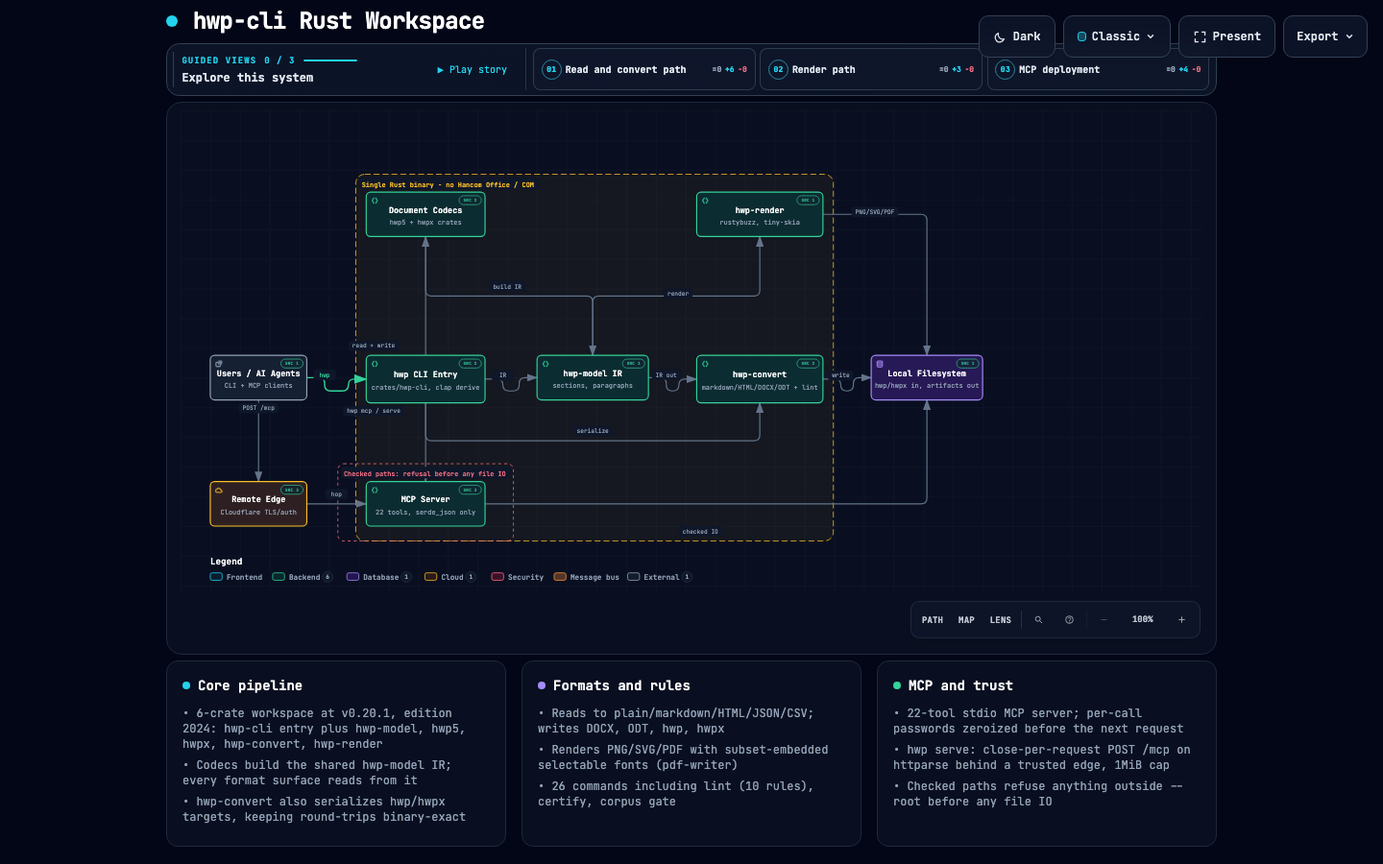
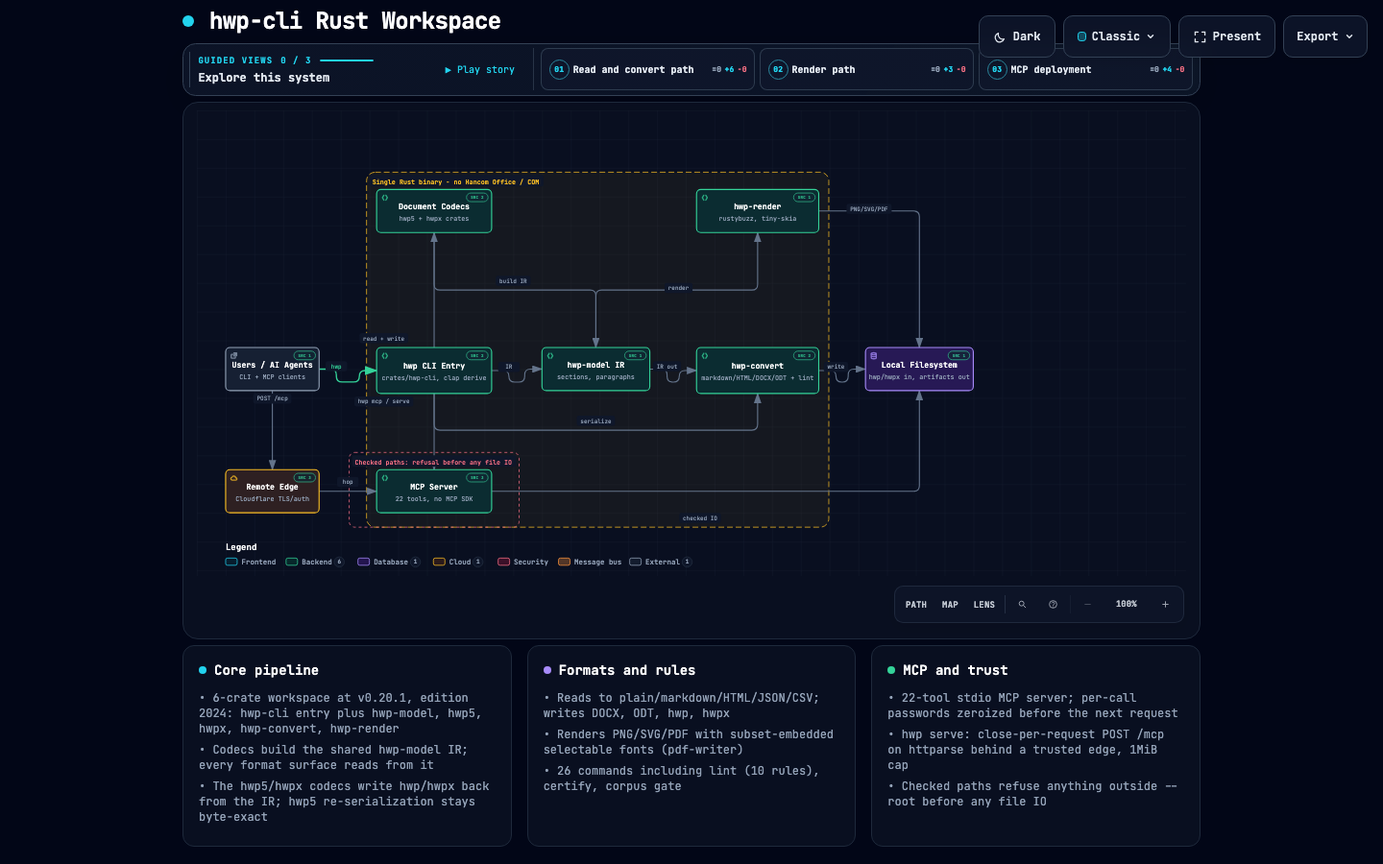
docs(archify): correct the codec and MCP facts the merge gate found
- the Core pipeline card claimed hwp-convert serializes hwp/hwpx; it has
  no runtime dependency on hwp5/hwpx (hub-and-spoke). The hwp5/hwpx
  codecs write hwp/hwpx back from the IR, and the byte-exact gate is
  hwp5 re-serialization only. Carried over from the original snapshot.
- MCP sublabel: "no MCP SDK" instead of "serde_json only" (the HTTP path
  now uses httparse)
- stdio.rs evidence anchors at line 4, where per-call zeroize is stated
- the visual-check sidecar records the artifact path relative to docs/
  instead of the absolute local path the tool writes

validate --quality showcase 9/9, 0 errors, 0 warnings; deliver spec
sha256 7b15b202..., artifact 84af04b6... (820997 bytes); visual-check
pass, containment ok at all four viewports.

Claude-Session: https://claude.ai/code/session_01Db8zCWZeJeNkrn9LPfnFH9

diff --git a/docs/hwp-cli-rendered.html b/docs/hwp-cli-rendered.html
@@ -5086,7 +5086,7 @@ OTHER DEALINGS IN THE FONT SOFTWARE.
     </div>
 
     <script id="archify-guided-views-data" type="application/json">[{"id":"read-path","label":"Read and convert path","focus":["user","cli","codecs","model","convert","fs"],"note":"From hwp/hwpx input to IR and converted artifacts."},{"id":"render-path","label":"Render path","focus":["model","render","fs"],"note":"IR to glyph shaping, layout and PNG/SVG/PDF publishing."},{"id":"mcp-path","label":"MCP deployment","focus":["cli","mcp","edge","fs"],"note":"22-tool stdio server and the POST /mcp edge hop."}]</script>
-    <script id="archify-source-evidence-data" type="application/json">{"schemaVersion":1,"verified":true,"repository":{"url":"https://github.com/STAIxBWLB/hwp-cli","revision":"41a1c555747b338efe265f87cb6dca06b223cad7","shortRevision":"41a1c55","label":"STAIxBWLB/hwp-cli","href":"https://github.com/STAIxBWLB/hwp-cli/tree/41a1c555747b338efe265f87cb6dca06b223cad7"},"referenceCount":16,"nodes":{"user":[{"path":"crates/hwp-cli/src/cli.rs","line":68,"label":"clap derive Cmd enum","href":"https://github.com/STAIxBWLB/hwp-cli/blob/41a1c555747b338efe265f87cb6dca06b223cad7/crates/hwp-cli/src/cli.rs#L68"}],"cli":[{"path":"crates/hwp-cli/src/cli.rs","line":68,"endLine":580,"label":"26-variant Cmd enum","href":"https://github.com/STAIxBWLB/hwp-cli/blob/41a1c555747b338efe265f87cb6dca06b223cad7/crates/hwp-cli/src/cli.rs#L68-L580"},{"path":"crates/hwp-cli/src/main.rs","line":1,"label":"hwp binary entrypoint","href":"https://github.com/STAIxBWLB/hwp-cli/blob/41a1c555747b338efe265f87cb6dca06b223cad7/crates/hwp-cli/src/main.rs#L1"}],"codecs":[{"path":"crates/hwp5/src/lib.rs","line":1,"label":"CFB record stream codec","href":"https://github.com/STAIxBWLB/hwp-cli/blob/41a1c555747b338efe265f87cb6dca06b223cad7/crates/hwp5/src/lib.rs#L1"},{"path":"crates/hwpx/src/lib.rs","line":1,"label":"OWPML package codec","href":"https://github.com/STAIxBWLB/hwp-cli/blob/41a1c555747b338efe265f87cb6dca06b223cad7/crates/hwpx/src/lib.rs#L1"}],"model":[{"path":"crates/hwp-model/src/lib.rs","line":1,"label":"L1 semantic IR, serde only","href":"https://github.com/STAIxBWLB/hwp-cli/blob/41a1c555747b338efe265f87cb6dca06b223cad7/crates/hwp-model/src/lib.rs#L1"}],"render":[{"path":"crates/hwp-render/src/lib.rs","line":1,"label":"IR to PNG/SVG/PDF pipeline","href":"https://github.com/STAIxBWLB/hwp-cli/blob/41a1c555747b338efe265f87cb6dca06b223cad7/crates/hwp-render/src/lib.rs#L1"}],"convert":[{"path":"crates/hwp-convert/src/lint.rs","line":76,"endLine":85,"label":"10 stable rule ids","href":"https://github.com/STAIxBWLB/hwp-cli/blob/41a1c555747b338efe265f87cb6dca06b223cad7/crates/hwp-convert/src/lint.rs#L76-L85"},{"path":"crates/hwp-convert/src/official.rs","line":9,"label":"6 official-document profiles","href":"https://github.com/STAIxBWLB/hwp-cli/blob/41a1c555747b338efe265f87cb6dca06b223cad7/crates/hwp-convert/src/official.rs#L9"}],"fs":[{"path":"crates/hwp-cli/src/certification.rs","line":2964,"label":"atomic write_artifact staging","href":"https://github.com/STAIxBWLB/hwp-cli/blob/41a1c555747b338efe265f87cb6dca06b223cad7/crates/hwp-cli/src/certification.rs#L2964"}],"mcp":[{"path":"crates/hwp-cli/src/commands/mcp/mod.rs","line":2302,"label":"tool_defs: 22 tool table","href":"https://github.com/STAIxBWLB/hwp-cli/blob/41a1c555747b338efe265f87cb6dca06b223cad7/crates/hwp-cli/src/commands/mcp/mod.rs#L2302"},{"path":"crates/hwp-cli/src/commands/mcp/stdio.rs","line":9,"label":"per-call password zeroize","href":"https://github.com/STAIxBWLB/hwp-cli/blob/41a1c555747b338efe265f87cb6dca06b223cad7/crates/hwp-cli/src/commands/mcp/stdio.rs#L9"},{"path":"crates/hwp-cli/src/commands/mcp/authority.rs","line":273,"label":"checked_read_path / checked_write_path","href":"https://github.com/STAIxBWLB/hwp-cli/blob/41a1c555747b338efe265f87cb6dca06b223cad7/crates/hwp-cli/src/commands/mcp/authority.rs#L273"}],"edge":[{"path":"crates/hwp-cli/src/commands/mcp/http.rs","line":1,"label":"close-per-request POST /mcp adapter","href":"https://github.com/STAIxBWLB/hwp-cli/blob/41a1c555747b338efe265f87cb6dca06b223cad7/crates/hwp-cli/src/commands/mcp/http.rs#L1"},{"path":"crates/hwp-cli/src/commands/mcp/wire.rs","line":1,"label":"httparse head parsing, bounded framing","href":"https://github.com/STAIxBWLB/hwp-cli/blob/41a1c555747b338efe265f87cb6dca06b223cad7/crates/hwp-cli/src/commands/mcp/wire.rs#L1"},{"path":"docs/design/22-remote-mcp-deployment.md","line":85,"label":"private hop behind a trusted edge","href":"https://github.com/STAIxBWLB/hwp-cli/blob/41a1c555747b338efe265f87cb6dca06b223cad7/docs/design/22-remote-mcp-deployment.md#L85"}]}}</script>
+    <script id="archify-source-evidence-data" type="application/json">{"schemaVersion":1,"verified":true,"repository":{"url":"https://github.com/STAIxBWLB/hwp-cli","revision":"41a1c555747b338efe265f87cb6dca06b223cad7","shortRevision":"41a1c55","label":"STAIxBWLB/hwp-cli","href":"https://github.com/STAIxBWLB/hwp-cli/tree/41a1c555747b338efe265f87cb6dca06b223cad7"},"referenceCount":16,"nodes":{"user":[{"path":"crates/hwp-cli/src/cli.rs","line":68,"label":"clap derive Cmd enum","href":"https://github.com/STAIxBWLB/hwp-cli/blob/41a1c555747b338efe265f87cb6dca06b223cad7/crates/hwp-cli/src/cli.rs#L68"}],"cli":[{"path":"crates/hwp-cli/src/cli.rs","line":68,"endLine":580,"label":"26-variant Cmd enum","href":"https://github.com/STAIxBWLB/hwp-cli/blob/41a1c555747b338efe265f87cb6dca06b223cad7/crates/hwp-cli/src/cli.rs#L68-L580"},{"path":"crates/hwp-cli/src/main.rs","line":1,"label":"hwp binary entrypoint","href":"https://github.com/STAIxBWLB/hwp-cli/blob/41a1c555747b338efe265f87cb6dca06b223cad7/crates/hwp-cli/src/main.rs#L1"}],"codecs":[{"path":"crates/hwp5/src/lib.rs","line":1,"label":"CFB record stream codec","href":"https://github.com/STAIxBWLB/hwp-cli/blob/41a1c555747b338efe265f87cb6dca06b223cad7/crates/hwp5/src/lib.rs#L1"},{"path":"crates/hwpx/src/lib.rs","line":1,"label":"OWPML package codec","href":"https://github.com/STAIxBWLB/hwp-cli/blob/41a1c555747b338efe265f87cb6dca06b223cad7/crates/hwpx/src/lib.rs#L1"}],"model":[{"path":"crates/hwp-model/src/lib.rs","line":1,"label":"L1 semantic IR, serde only","href":"https://github.com/STAIxBWLB/hwp-cli/blob/41a1c555747b338efe265f87cb6dca06b223cad7/crates/hwp-model/src/lib.rs#L1"}],"render":[{"path":"crates/hwp-render/src/lib.rs","line":1,"label":"IR to PNG/SVG/PDF pipeline","href":"https://github.com/STAIxBWLB/hwp-cli/blob/41a1c555747b338efe265f87cb6dca06b223cad7/crates/hwp-render/src/lib.rs#L1"}],"convert":[{"path":"crates/hwp-convert/src/lint.rs","line":76,"endLine":85,"label":"10 stable rule ids","href":"https://github.com/STAIxBWLB/hwp-cli/blob/41a1c555747b338efe265f87cb6dca06b223cad7/crates/hwp-convert/src/lint.rs#L76-L85"},{"path":"crates/hwp-convert/src/official.rs","line":9,"label":"6 official-document profiles","href":"https://github.com/STAIxBWLB/hwp-cli/blob/41a1c555747b338efe265f87cb6dca06b223cad7/crates/hwp-convert/src/official.rs#L9"}],"fs":[{"path":"crates/hwp-cli/src/certification.rs","line":2964,"label":"atomic write_artifact staging","href":"https://github.com/STAIxBWLB/hwp-cli/blob/41a1c555747b338efe265f87cb6dca06b223cad7/crates/hwp-cli/src/certification.rs#L2964"}],"mcp":[{"path":"crates/hwp-cli/src/commands/mcp/mod.rs","line":2302,"label":"tool_defs: 22 tool table","href":"https://github.com/STAIxBWLB/hwp-cli/blob/41a1c555747b338efe265f87cb6dca06b223cad7/crates/hwp-cli/src/commands/mcp/mod.rs#L2302"},{"path":"crates/hwp-cli/src/commands/mcp/stdio.rs","line":4,"label":"per-call password zeroize","href":"https://github.com/STAIxBWLB/hwp-cli/blob/41a1c555747b338efe265f87cb6dca06b223cad7/crates/hwp-cli/src/commands/mcp/stdio.rs#L4"},{"path":"crates/hwp-cli/src/commands/mcp/authority.rs","line":273,"label":"checked_read_path / checked_write_path","href":"https://github.com/STAIxBWLB/hwp-cli/blob/41a1c555747b338efe265f87cb6dca06b223cad7/crates/hwp-cli/src/commands/mcp/authority.rs#L273"}],"edge":[{"path":"crates/hwp-cli/src/commands/mcp/http.rs","line":1,"label":"close-per-request POST /mcp adapter","href":"https://github.com/STAIxBWLB/hwp-cli/blob/41a1c555747b338efe265f87cb6dca06b223cad7/crates/hwp-cli/src/commands/mcp/http.rs#L1"},{"path":"crates/hwp-cli/src/commands/mcp/wire.rs","line":1,"label":"httparse head parsing, bounded framing","href":"https://github.com/STAIxBWLB/hwp-cli/blob/41a1c555747b338efe265f87cb6dca06b223cad7/crates/hwp-cli/src/commands/mcp/wire.rs#L1"},{"path":"docs/design/22-remote-mcp-deployment.md","line":85,"label":"private hop behind a trusted edge","href":"https://github.com/STAIxBWLB/hwp-cli/blob/41a1c555747b338efe265f87cb6dca06b223cad7/docs/design/22-remote-mcp-deployment.md#L85"}]}}</script>
     <script id="archify-i18n-data" type="application/json">{"locale":"en","messages":{"viewer.kind.frontend":"Frontend","viewer.kind.backend":"Backend","viewer.kind.database":"Database","viewer.kind.cloud":"Cloud","viewer.kind.security":"Security","viewer.kind.messagebus":"Message bus","viewer.kind.external":"External","viewer.kind.neutral":"Neutral","viewer.kind.node":"Node","viewer.kind.start":"Start","viewer.kind.active":"Active","viewer.kind.waiting":"Waiting","viewer.kind.decision":"Decision","viewer.kind.success":"Success","viewer.kind.failure":"Failure","viewer.toolbar.actions":"Diagram actions","viewer.theme.toggle.title":"Toggle theme (T)","viewer.theme.toggle":"Toggle color theme","viewer.theme.dark":"Dark","viewer.theme.light":"Light","viewer.preset.choose.title":"Choose visual style (S cycles)","viewer.preset.choose":"Choose visual style","viewer.preset.style":"Style","viewer.preset.menu":"Visual style","viewer.preset.identity":"Visual identity","viewer.preset.cycles":"S cycles","viewer.preset.classic":"Classic","viewer.preset.classic.short":"Classic","viewer.preset.classic.hint":"Stable technical default","viewer.preset.flow":"Signal Flow","viewer.preset.flow.short":"Flow","viewer.preset.flow.hint":"Motion-forward presentation","viewer.preset.blueprint":"Blueprint","viewer.preset.blueprint.hint":"Engineering review","viewer.preset.editorial":"Editorial","viewer.preset.editorial.hint":"Publication and launch notes","viewer.preset.badge.signalFlow":"SIGNAL FLOW","viewer.preset.badge.blueprint":"BLUEPRINT / REV 01","viewer.preset.badge.editorial":"EDITORIAL / FIELD NOTE","viewer.preset.badge.editorialPlate":"ARCHIFY / PLATE 04","viewer.preset.current":"Visual style: {style}. Choose visual style","viewer.motion.live":"Live","viewer.motion.still":"Still","viewer.motion.pause":"Pause motion","viewer.motion.resume":"Resume motion","viewer.motion.reduced":"Motion paused by reduced-motion preference","viewer.motion.hidden":"Motion paused while this page is hidden","viewer.motion.yielding":"Pause motion; currently yielding to {owner}","viewer.motion.yielding.title":"Live preview enabled · yielding to {owner}","viewer.owner.story":"the guided story","viewer.owner.chapter":"the active chapter","viewer.owner.chapterPreview":"the chapter delta preview","viewer.owner.handoff":"the chapter handoff","viewer.owner.route":"Route Probe","viewer.owner.lens":"Semantic Lens","viewer.owner.relationship":"Relationship Preview","viewer.owner.intent":"Intent Trace","viewer.owner.focus":"semantic focus","viewer.owner.legend":"legend preview","viewer.owner.reader":"reader interaction","viewer.present.enter":"Enter presentation stage","viewer.present.enter.title":"Presentation stage (F)","viewer.present.exit":"Exit presentation stage","viewer.present.exit.title":"Exit presentation stage (F or Escape)","viewer.present.present":"Present","viewer.present.exit.label":"Exit","viewer.export.button":"Export","viewer.export.button.title":"Export diagram (E)","viewer.export.diagram":"Export diagram","viewer.export.menu":"Export","viewer.export.subtitle":"Portable, clean outputs","viewer.export.share":"Share","viewer.export.shareCard":"Share Card","viewer.export.routeShareCard":"Route Share Card","viewer.export.reachShareCard":"Reach Share Card","viewer.export.copyShareCard":"Copy Share Card","viewer.export.copyDiagram":"Copy diagram","viewer.export.clipboardPng":"PNG to clipboard","viewer.export.raster":"Raster images","viewer.export.image":"Image","viewer.export.lossless":"Lossless image","viewer.export.compact":"Compact image","viewer.export.modern":"Modern image","viewer.export.vectorMotion":"Vector and motion","viewer.export.vectorMotion.heading":"Vector \u0026 motion","viewer.export.editable":"Editable vector","viewer.export.motion6s":"6s motion","viewer.export.unsupported":"Not supported by this browser","viewer.export.clipboardUnsupported":"Clipboard image write not supported by this browser","viewer.export.clipboardUnsupported.period":"Clipboard image write not supported by this browser.","viewer.export.clipboardUnsupported.short":"Clipboard image write not supported in this browser.","viewer.export.motionUnavailable":"Motion capture unavailable in this browser","viewer.export.webmUnavailable":"WebM unavailable in this browser","viewer.export.failed":"Export failed: {message}","viewer.export.unknownVariant":"Unknown Share Card variant: {variant}","viewer.export.routeRequired":"Trace a route before exporting a Route Share Card","viewer.export.reachRequired":"Trace authored reach before exporting a Reach Share Card","viewer.export.unknown":"unknown","viewer.export.routeFailed":"Route Share Card export failed: {message}","viewer.export.reachFailed":"Reach Share Card export failed: {message}","viewer.export.copyFailed":"Copy failed: {message}","viewer.export.copiedPng":"Copied PNG to clipboard","viewer.export.copiedShare":"Copied Share Card","viewer.export.downloadedShare":"Downloaded Share Card","viewer.export.downloadedRoute":"Downloaded Route Share Card","viewer.export.downloadedReach":"Downloaded Reach Share Card","viewer.export.downloadedWebm":"Downloaded WebM","viewer.export.recording":"Recording 6 seconds of motion…","viewer.export.card.routeSummary.one":"Route: {source} → {target} · {count} directed hop","viewer.export.card.routeSummary.other":"Route: {source} → {target} · {count} directed hops","viewer.export.card.reachSummary":"Authored {direction} from {origin} · {nodes} · {links} · max {hops}","viewer.export.card.node.one":"{count} node","viewer.export.card.node.other":"{count} nodes","viewer.export.card.link.one":"{count} link","viewer.export.card.link.other":"{count} links","viewer.export.card.hop.one":"{count} hop","viewer.export.card.hop.other":"{count} hops","viewer.export.card.routeBadge":"ARCHIFY · ROUTE · {hops}","viewer.export.card.reachBadge":"ARCHIFY · {direction} REACH","viewer.export.card.defaultBadge":"ARCHIFY · {preset} · {theme}","viewer.export.direction.upstream":"Upstream","viewer.export.direction.downstream":"Downstream","viewer.export.error.canvasUnavailable":"Canvas unavailable for {label}","viewer.export.error.contextUnavailable":"2D canvas context unavailable for {label}","viewer.export.error.toBlobUnavailable":"canvas.toBlob unavailable for {label}","viewer.export.error.toBlobNull":"canvas.toBlob returned no data for {label}","viewer.export.error.variantsCombined":"Share Card variants cannot be combined","viewer.export.error.viewerState":"Share Card export could not remove temporary viewer state","viewer.export.error.routeState":"Route Card export could not preserve the resolved route safely","viewer.export.error.reachState":"Reach Card export could not preserve authored reach safely","viewer.export.error.webmRequirements":"WebM motion export requires a trace animation and browser MediaRecorder support","viewer.export.error.mediaRecorder":"MediaRecorder failed","viewer.export.error.emptyWebm":"MediaRecorder produced an empty WebM","viewer.export.error.webmBackground":"SVG background could not be loaded for WebM export","viewer.guided.region":"Guided diagram views","viewer.guided.previous":"Previous guided view","viewer.guided.previous.title":"Previous guided view ([)","viewer.guided.next":"Next guided view","viewer.guided.next.title":"Next guided view (])","viewer.guided.views":"Guided views","viewer.guided.explore":"Explore this system","viewer.guided.intro":"Step through curated paths without changing the source diagram.","viewer.guided.trail":"Story trail","viewer.guided.beat":"Beat","viewer.guided.nextBeat":"Next","viewer.guided.play":"Play guided story","viewer.guided.play.title":"Play guided story (P)","viewer.guided.pause":"Pause guided story","viewer.guided.pause.title":"Pause guided story (P)","viewer.guided.replay":"Replay guided story","viewer.guided.replay.title":"Replay guided story (P)","viewer.guided.playStory":"Play story","viewer.guided.pauseStory":"Pause","viewer.guided.replayStory":"Replay story","viewer.guided.motionUnavailable":"Story playback unavailable while motion is Still","viewer.guided.enableMotion":"Switch motion to Live to play the guided story","viewer.guided.selectBeatLink":"Select a Story Beat to copy its exact link","viewer.guided.copyMoment":"Copy moment","viewer.guided.momentCopied":"Moment link copied","viewer.guided.momentCopyFailed":"Could not copy story moment link","viewer.guided.copied":"Copied","viewer.guided.copyFailed":"Copy failed","viewer.guided.showAll":"Show all","viewer.guided.showAll.aria":"Show entire diagram","viewer.guided.chapters":"Story chapters","viewer.guided.storyTrail":"Story trail for {label}: {count} beats","viewer.guided.chapter.open":"Open chapter {index} of {total}: {label}, {count} stops","viewer.guided.chapter.current":"Current chapter {index} of {total}: {label}, {count} stops","viewer.guided.chapter.selectedNodes":"{count} selected nodes","viewer.guided.chapter.stops":"{count} stops","viewer.guided.chapter.stop.one":"{count} stop","viewer.guided.chapter.stop.other":"{count} stops","viewer.guided.chapter.current.title":"{label} — current chapter, {count} stops","viewer.guided.chapter.delta.expanded":"{stay} stay, {enter} enter, {leave} leave","viewer.guided.chapter.delta.aria":"Open chapter {index} of {total}: {label}. Chapter focus delta: {delta}","viewer.guided.chapter.delta.title":"{label} — {delta} chapter focus","viewer.guided.handoff":"{from} → {to} · via {label}","viewer.guided.share.chapter":"Chapter {index} / {total}","viewer.guided.share.initial":"Chapter 01 / 01","viewer.guided.share.default":"Guided chapter","viewer.guided.state.ready":"Ready","viewer.guided.state.playing":"Playing","viewer.guided.state.settled":"Settled","viewer.guided.state.paused":"Paused","viewer.guided.state.pinned":"Pinned","viewer.guided.state.still":"Still","viewer.guided.share.step":"Step {index} / {total} · {label}","viewer.guided.share.staticMoment":"{step} · Static moment","viewer.guided.share.complete":"{count} steps complete · {note}","viewer.guided.share.settled":"Path settled for reading.","viewer.guided.share.staticPath":"{count} steps · Static path","viewer.guided.share.ready":"{count} steps · Ready","viewer.guided.share.aria":"{state} chapter {index} of {total}: {label}. {beat}. {route}","viewer.guided.beat.start":"Beat {index} / {total} · {label} · starting point","viewer.guided.beat.forward":"Beat {index} / {total} · {from} → {to}","viewer.guided.beat.reverse":"Beat {index} / {total} · {from} → {to} · reverse authored link","viewer.guided.beat.multiple":"Beat {index} / {total} · {from} ⇄ {to} · {count} authored links","viewer.guided.beat.group":"Beat {index} / {total} · {from} · {to} · grouped · no direct link","viewer.guided.beat.aria.prefix":"Story beat {index} of {total}: {label}. ","viewer.guided.beat.aria.start":"Starting point.","viewer.guided.beat.aria.forward":"From {from} through one authored forward relationship.","viewer.guided.beat.aria.reverse":"From {from}; the authored relationship points from {to} to {from}.","viewer.guided.beat.aria.multiple":"From {from} through {count} authored relationships; shown without arbitrary motion.","viewer.guided.beat.aria.group":"Grouped from {from} with no direct authored relationship.","viewer.guided.caption.start":"Starting point","viewer.guided.caption.grouped":"Grouped transition · no direct authored link","viewer.guided.caption.more":" +{count} more","viewer.guided.caption.reverse":"Reverse authored relationship","viewer.guided.caption.relationships":"{count} authored relationships","viewer.guided.caption.relationship":"Authored relationship","viewer.guided.caption.direction":"authored direction: {from} → {to}","viewer.guided.caption.starting":"Authored starting point","viewer.guided.beatLink":"Copy link to current story moment: Beat {index} of {total}: {label}","viewer.guided.noStory":"This diagram has no authored guided story.","viewer.guide.eyebrow":"Diagram guide","viewer.guide.close":"Close diagram guide","viewer.guide.inspecting":"Inspecting compiled semantics","viewer.guide.actions":"Diagram exploration actions","viewer.guide.find":"Find any node","viewer.guide.find.hint":"Search labels, responsibilities, kinds, and stable IDs.","viewer.guide.route":"Trace a route","viewer.guide.route.aria":"Trace a directed route","viewer.guide.route.hint":"Ask how two semantic nodes connect in authored direction.","viewer.guide.map":"See the whole system","viewer.guide.map.hint":"Open Semantic Radar with a live viewport and stable nodes.","viewer.guide.lens":"Compare semantic kinds","viewer.guide.lens.hint":"Count roles, reveal their traffic, and compare direct authored links.","viewer.guide.story":"Play the guided story","viewer.guide.story.hint":"Walk the authored chapters and real relationships.","viewer.guide.present":"Enter Presentation Stage","viewer.guide.present.hint":"Give the live diagram the viewport without changing export.","viewer.guide.shortcuts":"Additional keyboard shortcuts","viewer.guide.shortcut.export":"Export","viewer.guide.shortcut.theme":"Theme","viewer.guide.shortcut.style":"Style","viewer.guide.shortcut.reset":"Reset","viewer.guide.shortcut.zoomIn":"Zoom in","viewer.guide.shortcut.zoomOut":"Zoom out","viewer.guide.shortcut.close":"Close","viewer.guide.facts":"{nodes} · {relationships} · {views}","viewer.guide.fact.node.one":"{count} semantic node","viewer.guide.fact.node.other":"{count} semantic nodes","viewer.guide.fact.relationship.one":"{count} relationship","viewer.guide.fact.relationship.other":"{count} relationships","viewer.guide.fact.view.one":"{count} guided view","viewer.guide.fact.view.other":"{count} guided views","viewer.guide.story.available.one":"Walk {count} authored chapter and its real relationships.","viewer.guide.story.available.other":"Walk {count} authored chapters and their real relationships.","viewer.guide.story.unavailable":"No authored guided story in this diagram.","viewer.guide.open":"Open diagram guide","viewer.guide.noStory":"This diagram has no authored guided story.","viewer.finder.title":"Find a node","viewer.finder.close":"Close node finder","viewer.finder.placeholder":"Search labels or IDs","viewer.finder.search":"Search diagram nodes","viewer.finder.results":"Diagram nodes","viewer.finder.empty":"No matching nodes","viewer.finder.result.focus":"Focus {label}","viewer.finder.result.routeStart":"Choose {label} as route start","viewer.finder.result.routeTarget":"Choose {label} as route destination, {links}","viewer.finder.status.empty":"No matching nodes","viewer.finder.status.count.one":"{count} matching node","viewer.finder.status.count.other":"{count} matching nodes","viewer.finder.noun.nodes":"nodes","viewer.finder.link.one":"{count} link","viewer.finder.link.other":"{count} links","viewer.finder.result.focus.one":"Focus {label}, {count} related connection","viewer.finder.result.focus.other":"Focus {label}, {count} related connections","viewer.finder.status.filtered":"{visible} of {available} {noun}","viewer.finder.status.all":"{available} {noun}","viewer.passport.eyebrow":"Semantic passport","viewer.passport.metadata":"Node metadata","viewer.passport.evidence":"Verified source evidence","viewer.passport.verified":"Verified source","viewer.passport.verificationScope":"Verified against local Git at the pinned revision. Remote access has not been checked.","viewer.passport.reach":"Authored reach","viewer.passport.reach.trace":"Trace authored reachability","viewer.passport.upstream":"Upstream","viewer.passport.downstream":"Downstream","viewer.passport.upstream.trace":"Trace upstream authored reachability","viewer.passport.downstream.trace":"Trace downstream authored reachability","viewer.passport.close":"Close semantic passport","viewer.passport.copy":"Copy link","viewer.passport.copy.focus":"Copy link to focused node","viewer.passport.relations":"Relations","viewer.passport.relations.show":"Show connected relationships","viewer.passport.relations.hide":"Hide connected relationships","viewer.passport.relations.list":"Connected relationships","viewer.passport.copyRelation":"Copy relation","viewer.passport.copyNode":"Copy node","viewer.passport.copyPinned":"Copy link to pinned relationship","viewer.passport.copySource":"Copy link to source node","viewer.passport.copy.focused.success":"Focused node link copied","viewer.passport.copy.pinned.success":"Pinned relationship link copied","viewer.passport.copy.focused.failed":"Could not copy focused node link","viewer.passport.copy.pinned.failed":"Could not copy pinned relationship link","viewer.passport.relationship.none":"No connected relationships","viewer.passport.relationship.count.one":"{count} relation","viewer.passport.relationship.count.other":"{count} relations","viewer.passport.relationship.show.one":"Show {count} connected relationship","viewer.passport.relationship.show.other":"Show {count} connected relationships","viewer.passport.relationship.summary":"{out} outgoing · {in} incoming{loops}","viewer.passport.relationship.loops":" · {count} loop","viewer.passport.relationship.explorer":"Direct relationship explorer","viewer.passport.relationship.help":"Use arrow keys to explore relationships. Press Enter or Space to pin details; Escape clears.","viewer.passport.relationship.loopsBack":"loops back","viewer.passport.relationship.connectsTo":"connects to","viewer.passport.relationship.connectsFrom":"connects from","viewer.passport.relationship.pinned":"Pinned relationship · {from} → {to} · {label}","viewer.passport.relationship.inspect":"Inspect relationship {index} of {total}: {from} to {to}, {label}. Press Enter for details.","viewer.passport.relationship.group.out":"Outgoing","viewer.passport.relationship.group.in":"Incoming","viewer.passport.relationship.group.loop":"Self loops","viewer.passport.relationship.row":"{group}: {relationship}, {neighbor}","viewer.passport.relationship.direction.out":"OUT →","viewer.passport.relationship.direction.in":"← IN","viewer.passport.relationship.direction.loop":"LOOP","viewer.passport.sourceCount.one":"{count} verified source reference","viewer.passport.sourceCount.other":"{count} verified source references","viewer.passport.sourceMarker":"SRC","viewer.passport.beacon.one":"{count} verified source; focus this node to inspect","viewer.passport.beacon.other":"{count} verified sources; focus this node to inspect","viewer.passport.repository.open":"Open verified repository revision {revision}","viewer.passport.source.open":"Open verified source {path} at revision {revision}","viewer.passport.source.openLink":"Open ↗","viewer.passport.reach.upstream.one":"Trace {count} upstream authored node","viewer.passport.reach.upstream.other":"Trace {count} upstream authored nodes","viewer.passport.reach.downstream.one":"Trace {count} downstream authored node","viewer.passport.reach.downstream.other":"Trace {count} downstream authored nodes","viewer.passport.reach.noUpstream":"No upstream authored nodes","viewer.passport.reach.noDownstream":"No downstream authored nodes","viewer.passport.reach.status":"{direction} · {nodes} nodes · {links} links · max {hops} hops","viewer.route.eyebrow":"Route probe","viewer.route.start":"Choose a start node","viewer.route.start.find":"Find start","viewer.route.start.find.aria":"Find a route start","viewer.route.copy":"Copy link","viewer.route.copy.aria":"Copy link to traced route","viewer.route.clear":"Clear","viewer.route.clear.aria":"Clear route probe","viewer.route.traced":"Traced route","viewer.route.pickTwo":"Pick two semantic nodes on the diagram","viewer.route.pickOne":"Pick a semantic node on the diagram","viewer.route.controls":"Route journey controls","viewer.route.previous":"Previous route position","viewer.route.play":"Play route journey","viewer.route.pause":"Pause route journey","viewer.route.replay":"Replay route journey","viewer.route.next":"Next route position","viewer.route.journey":"Journey","viewer.route.pause.label":"Pause","viewer.route.replay.label":"Replay","viewer.route.overview":"Overview","viewer.route.overview.aria":"Show complete route overview","viewer.route.instructions":"Choose the source, then the destination. Direction matters.","viewer.route.destination":"Choose a destination from {label}","viewer.route.destination.find":"Find target","viewer.route.destination.find.aria":"Find a reachable route destination","viewer.route.differentDestination":"Choose a different destination","viewer.route.distinct":"A route needs two distinct semantic nodes.","viewer.route.unreachable":"No directed route to {label}","viewer.route.unreachable.detail":"{target} is not reachable from {source}. Pick a highlighted destination.","viewer.route.start.instructions":"Select the source. The next step will reveal only directed destinations.","viewer.route.copy.success":"Traced route link copied","viewer.route.copy.failed":"Could not copy traced route link","viewer.route.position":"Route position {index} of {total}: {label}","viewer.route.step":"Step {index} of {total} · {phase} · {label}","viewer.route.motionRequired":"Automatic journey requires Live motion","viewer.route.trigger.clear":"Clear traced route","viewer.route.overview.status":"{nodes} · {hops} · shortest authored route","viewer.route.overview.node.one":"{count} node","viewer.route.overview.node.other":"{count} nodes","viewer.route.overview.hop.one":"{count} directed hop","viewer.route.overview.hop.other":"{count} directed hops","viewer.route.phase.playing":"Playing","viewer.route.phase.complete":"Complete","viewer.route.phase.inspecting":"Inspecting","viewer.route.destination.count.one":"{count} directed destination available. Pick a highlighted node.","viewer.route.destination.count.other":"{count} directed destinations available. Pick a highlighted node.","viewer.route.noOutgoing":"No outgoing route starts here. Clear and choose another source.","viewer.route.result.title":"{source} to {target}","viewer.route.finder.source.title":"Choose route start","viewer.route.finder.source.placeholder":"Search route sources","viewer.route.finder.source.empty":"No matching route sources","viewer.route.finder.source.results":"Nodes that can start a route","viewer.route.finder.source.noun":"route sources","viewer.route.finder.source.badge":"start","viewer.route.finder.target.title":"Destination from {label}","viewer.route.finder.target.placeholder":"Search reachable destinations","viewer.route.finder.target.empty":"No matching reachable destinations","viewer.route.finder.target.results":"Reachable route destinations","viewer.route.finder.target.noun":"reachable destinations","viewer.route.hop.one":"{count} hop","viewer.route.hop.other":"{count} hops","viewer.lens.eyebrow":"Semantic lens","viewer.lens.title":"Compare system roles","viewer.lens.close":"Close semantic lens","viewer.lens.instruction":"Choose up to two semantic kinds. One reveals its real traffic; two compare only direct authored relationships.","viewer.lens.kinds":"Semantic kinds","viewer.lens.choose":"Choose a kind to inspect its nodes and touching relationships.","viewer.lens.copy":"Copy link to semantic lens","viewer.lens.clear":"Clear semantic lens","viewer.lens.open":"Open semantic lens","viewer.lens.openActive":"Open active semantic lens","viewer.lens.legend":"Semantic legend","viewer.lens.legend.inspect.one":"Inspect {label}, {count} node","viewer.lens.legend.inspect.other":"Inspect {label}, {count} nodes","viewer.lens.kind.count.one":"{label}, {count} node","viewer.lens.kind.count.other":"{label}, {count} nodes","viewer.lens.compare.one":"{first} → {second}: {forward} · {second} → {first}: {reverse} · {count} direct relationship","viewer.lens.compare.other":"{first} → {second}: {forward} · {second} → {first}: {reverse} · {count} direct relationships","viewer.lens.single":"{nodes} · {relationships} · connected peers remain visible","viewer.lens.node.one":"{count} {label} node","viewer.lens.node.other":"{count} {label} nodes","viewer.lens.relationship.one":"{count} touching relationship","viewer.lens.relationship.other":"{count} touching relationships","viewer.radar.title":"Semantic radar","viewer.radar.building":"Building overview","viewer.radar.openFull":"Open full semantic radar","viewer.radar.open":"Open radar","viewer.radar.close":"Close semantic radar","viewer.radar.surface":"Diagram overview. Click a node to focus it, or use arrow keys to pan.","viewer.radar.click":"Click node","viewer.radar.drag":"Drag to pan","viewer.radar.space":"Semantic radar needs more MAP space.","viewer.radar.nodes":"Semantic diagram radar nodes","viewer.radar.focus":"Focus {label} from Semantic Radar","viewer.radar.status":"{count} nodes · {viewport}","viewer.radar.fullMap":"{count} nodes · full map","viewer.radar.compacted":"Radar compacted to avoid covering the Semantic Passport or MAP controls.","viewer.radar.cancelWaiting":"Cancel semantic radar waiting for more MAP space","viewer.radar.needsSpace":"Semantic radar needs more visible MAP space","viewer.radar.viewport.full":"full map","viewer.radar.viewport.width":"{percent}% width","viewer.radar.viewport.scale":"{percent}% viewport","viewer.nav.controls":"Diagram view controls","viewer.nav.route":"Trace a directed route","viewer.nav.route.title":"Trace route (R)","viewer.nav.route.short":"PATH","viewer.nav.radar":"Open semantic radar","viewer.nav.radar.title":"Semantic radar (M)","viewer.nav.radar.short":"MAP","viewer.nav.lens":"Open semantic lens","viewer.nav.lens.title":"Semantic lens (L)","viewer.nav.lens.short":"LENS","viewer.nav.find":"Find a node","viewer.nav.find.title":"Find a node (/)","viewer.nav.guide":"Open diagram guide","viewer.nav.guide.title":"Diagram guide (?)","viewer.nav.zoomOut":"Zoom out","viewer.nav.zoomOut.title":"Zoom out (-)","viewer.nav.reset":"Reset diagram view","viewer.nav.reset.title":"Reset view (0)","viewer.nav.read":"READ","viewer.nav.zoomIn":"Zoom in","viewer.nav.zoomIn.title":"Zoom in (+)","viewer.nav.camera":"{hint}. Reset diagram view","viewer.nav.camera.title":"{semantic}{hint} · reset view (0)","viewer.nav.camera.semantic":"Semantic camera active · ","viewer.nav.level.map":"MAP","viewer.nav.level.read":"READ","viewer.nav.level.full":"FULL","viewer.nav.level.auto":"AUTO","viewer.nav.detail.map":"Zoom in to reveal relationship labels and node context","viewer.nav.detail.read":"Zoom in again to reveal tags and annotations","viewer.nav.detail.full":"Full diagram detail","viewer.intent.summary":"{label}. {out} outgoing, {in} incoming{loops}. {total} connections. Press Enter for details.","viewer.intent.loops":", {count} self loop","viewer.common.copied":"Copied","viewer.common.copyFailed":"Copy failed","viewer.common.copyLink":"Copy link","viewer.common.clear":"Clear","viewer.common.close":"Close"}}</script>
     <div class="guided-views no-print" id="guided-views" hidden aria-label="Guided diagram views">
       <button id="guided-view-prev" type="button" aria-label="Previous guided view" title="Previous guided view ([)">&#8592;</button>
@@ -5261,15 +5261,15 @@ OTHER DEALINGS IN THE FONT SOFTWARE.
         <text data-detail="fine" x="1005" y="382" class="t-database" font-size="7" text-anchor="middle">atomic report publish</text>
         </g>
 
-        <g id="node-mcp" data-node-id="mcp" data-node-label="MCP Server" tabindex="0" role="button" aria-label="Focus MCP Server, 22 tools, serde_json only, Single Rust binary - no Hancom Office / COM › Checked paths: refusal before any file IO" aria-pressed="false" data-node-kind="backend" data-node-sublabel="22 tools, serde_json only" data-node-tag="stdio + HTTP" data-node-context="Single Rust binary - no Hancom Office / COM › Checked paths: refusal before any file IO">
-          <title>MCP Server · 22 tools, serde_json only · Single Rust binary - no Hancom Office / COM › Checked paths: refusal before any file IO · stdio + HTTP</title>
+        <g id="node-mcp" data-node-id="mcp" data-node-label="MCP Server" tabindex="0" role="button" aria-label="Focus MCP Server, 22 tools, no MCP SDK, Single Rust binary - no Hancom Office / COM › Checked paths: refusal before any file IO" aria-pressed="false" data-node-kind="backend" data-node-sublabel="22 tools, no MCP SDK" data-node-tag="stdio + HTTP" data-node-context="Single Rust binary - no Hancom Office / COM › Checked paths: refusal before any file IO">
+          <title>MCP Server · 22 tools, no MCP SDK · Single Rust binary - no Hancom Office / COM › Checked paths: refusal before any file IO · stdio + HTTP</title>
           <rect x="250" y="500" width="160" height="60" rx="6" class="c-mask"/>
           <rect x="250" y="500" width="160" height="60" rx="6" class="c-backend" stroke-width="1.5"/>
           <g aria-hidden="true" data-semantic-sigil="backend" class="semantic-sigil s-backend" transform="translate(256 506) scale(0.6875)">
             <path d="M6 3 3 8l3 5M10 3l3 5-3 5"/>
           </g>
           <text data-node-label="" data-detail-anchor="" x="330" y="528" class="t-primary" font-size="11" font-weight="600" text-anchor="middle">MCP Server</text>
-        <text data-detail="context" x="330" y="544" class="t-muted" font-size="9" text-anchor="middle">22 tools, serde_json only</text>
+        <text data-detail="context" x="330" y="544" class="t-muted" font-size="9" text-anchor="middle">22 tools, no MCP SDK</text>
         <text data-detail="fine" x="330" y="552" class="t-backend" font-size="7" text-anchor="middle">stdio + HTTP</text>
         </g>
 
@@ -5576,7 +5576,7 @@ OTHER DEALINGS IN THE FONT SOFTWARE.
         <ul>
           <li>&bull; 6-crate workspace at v0.20.1, edition 2024: hwp-cli entry plus hwp-model, hwp5, hwpx, hwp-convert, hwp-render</li>
           <li>&bull; Codecs build the shared hwp-model IR; every format surface reads from it</li>
-          <li>&bull; hwp-convert also serializes hwp/hwpx targets, keeping round-trips binary-exact</li>
+          <li>&bull; The hwp5/hwpx codecs write hwp/hwpx back from the IR; hwp5 re-serialization stays byte-exact</li>
         </ul>
       </div>
 
